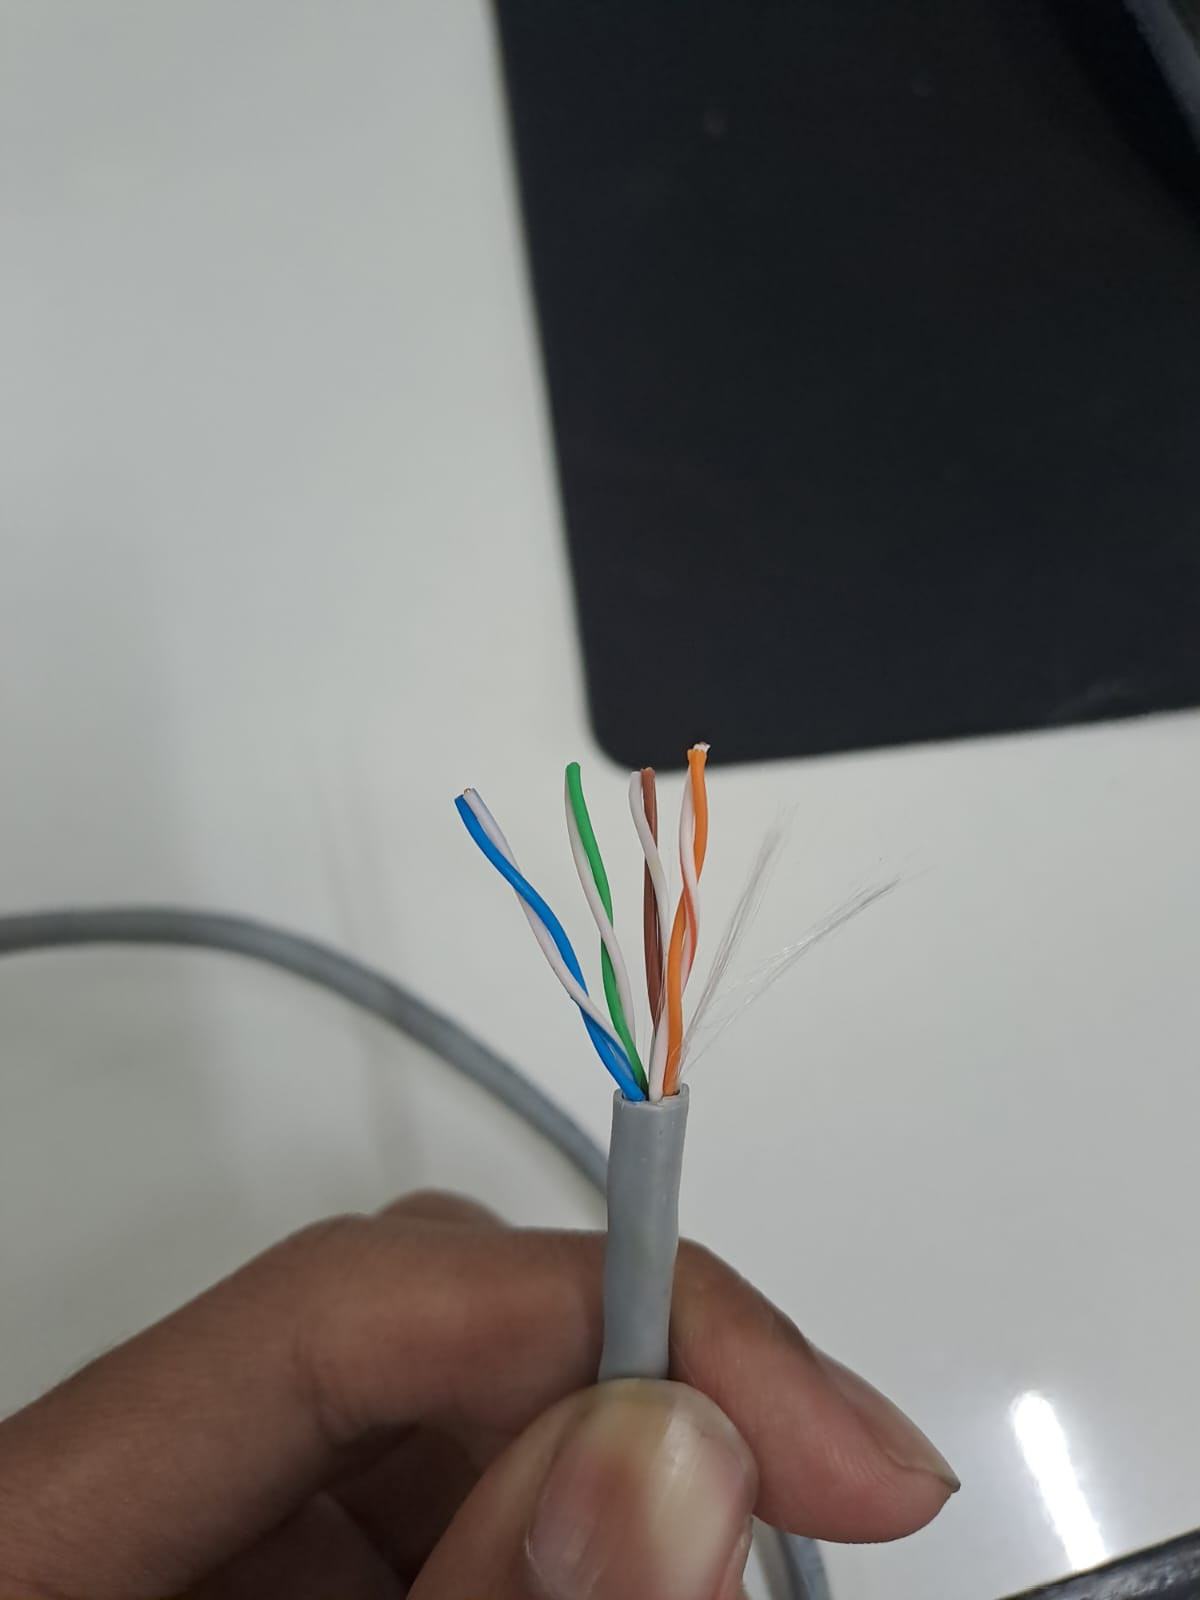
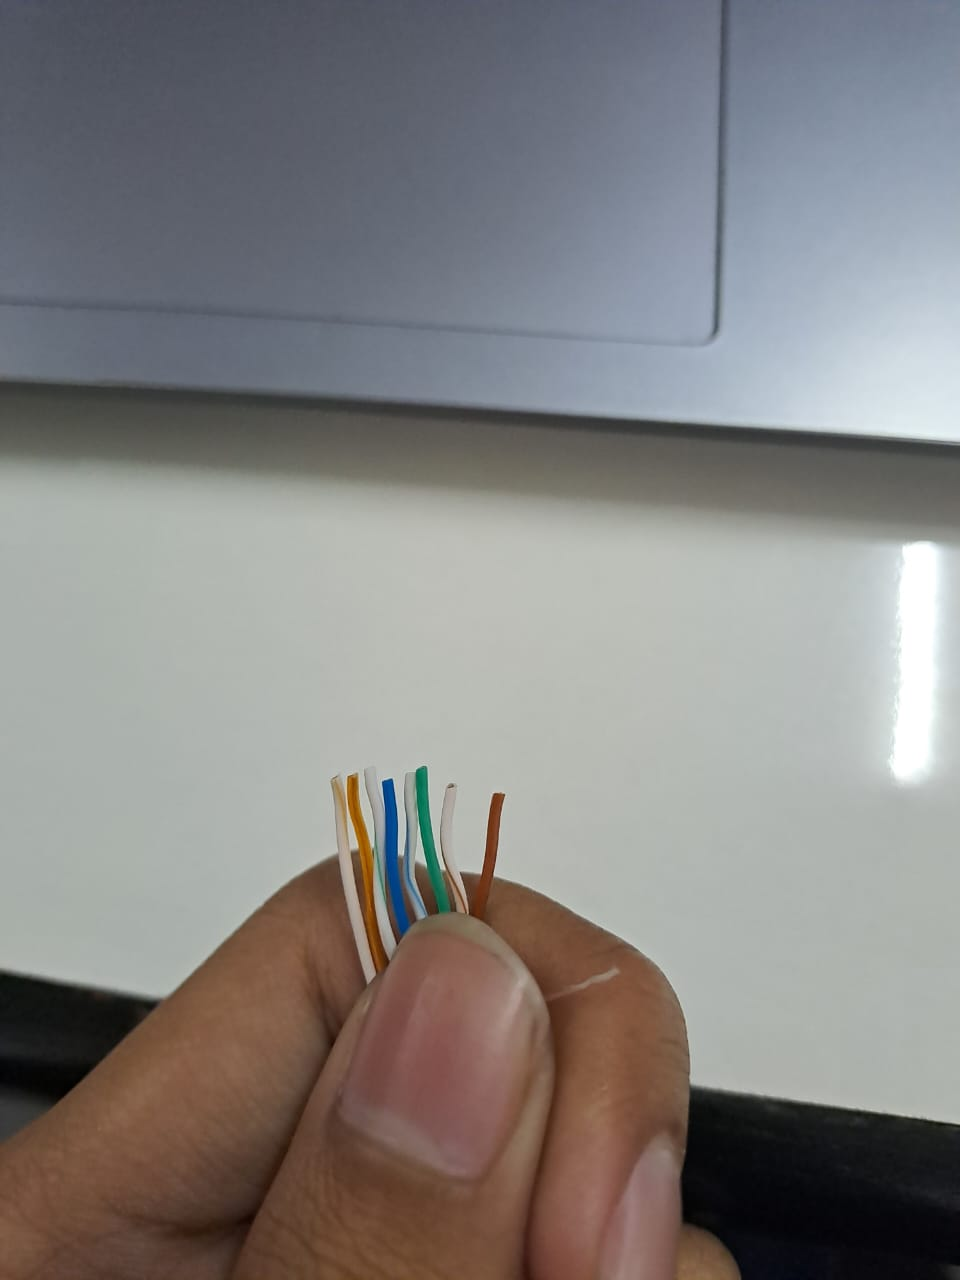
Bab Two Crimping

diff --git a/content/docs/babTwo/crimping.md b/content/docs/babTwo/crimping.md
@@ -106,27 +106,55 @@ antara Switch ke Printer atau Switch ke Infocus.
 <img src="/images/babTwo/bt-13.jpg" alt="Gambar B.1 - Jenis Kabel Jaringan" class="img-fluid mb-3 responsive-img">
 </center>
 
-<h4>Cara Kerja</h4>
+## Cara crimping kabel
 
-1. Pertama, kupas kedua ujung kabel UTP untuk mengungkpakan kabel tembaga didalamnya.
+1.  Siapkan alat crimping dan kabel
+    <center>
+    <img src="/images/babTwo/bt-14.jpg" alt="Gambar B.1 - Jenis Kabel Jaringan" class="img-fluid mb-3 responsive-img-small">
+    </center>
 
-2. Rapikan seluruh kabel dengan hati-hati, pastikan urutan pin tetap terjaga tanpa ada perubahan posisi.
+2.  Pertama, kupas kedua ujung kabel UTP untuk mengungkpakan kabel tembaga didalamnya.
+    <center>
+    <img src="/images/babTwo/bt-15.jpg" alt="Gambar B.1 - Jenis Kabel Jaringan" class="img-fluid mb-3 responsive-img-small">
+    </center>
 
-3. Selanjutnya, rapikan ujung kabel dengan memotong sedikit menggunakan pemotong pada tang crimping, sehingga ujung-ujung kabel sejajar dan memiliki panjang yang sama.
+3.  Rapikan seluruh kabel dengan hati-hati, pastikan urutan warna pin tetap terjaga tanpa ada perubahan posisi.
+    <center>
+    <img src="/images/babTwo/bt-16.jpg" alt="Gambar B.1 - Jenis Kabel Jaringan" class="img-fluid mb-3 responsive-img-small">
+    </center>
 
-4. Maka ujung-ujung kabel akan terlihat rapi, sejajar, dan memiliki panjang yang sama.
+4.  Selanjutnya, rapikan ujung kabel dengan memotong sedikit menggunakan pemotong pada tang crimping, sehingga ujung-ujung kabel sejajar dan memiliki panjang yang sama.
+    <center>
+    <img src="/images/babTwo/bt-17.jpg" alt="Gambar B.1 - Jenis Kabel Jaringan" class="img-fluid mb-3 responsive-img-small">
+    </center>
 
-5. Lalu berikutnya, masukkan kedua ujung kabel ke dalam konektor RJ-45.
+5.  Maka ujung-ujung kabel akan terlihat rapi, sejajar, dan memiliki panjang yang sama.
+    <center>
+    <img src="/images/babTwo/bt-18.jpg" alt="Gambar B.1 - Jenis Kabel Jaringan" class="img-fluid mb-3 responsive-img-small">
+    </center>
 
-6. Tempatkan konektor ke dalam ruang yang sesuai pada alat crimping.
+6.  Lalu berikutnya, masukkan kedua ujung kabel ke dalam konektor RJ-45.
+    <center>
+    <img src="/images/babTwo/bt-19.jpg" alt="Gambar B.1 - Jenis Kabel Jaringan" class="img-fluid mb-3 responsive-img-small">
+    </center>
 
-7. Kemudian, tekan konektor RJ-45 dengan alat crimping hingga kedua gagangnya terjepit rapat, dan terdengar bunyi "klik".
+7.  Tempatkan konektor ke dalam ruang yang sesuai pada alat crimping.
 
-8. Periksa kembali apakah semua ujung kabel telah sejajar dan menyentuh dasar konektor, serta pastikan setiap pin tembaga pada konektor telah menembus ujung kabel secara merata. Jika semua langkah ini telah terpenuhi, maka kabel siap digunakan.
+8.  Kemudian, tekan konektor RJ-45 dengan alat crimping hingga kedua gagangnya terjepit rapat, dan terdengar bunyi "klik".
+    <center>
+    <img src="/images/babTwo/bt-20.jpg" alt="Gambar B.1 - Jenis Kabel Jaringan" class="img-fluid mb-3 responsive-img-small">
+    </center>
 
-9. Ulangi langkah yang sama pada ujung kabel yang satunya (berikutnya).
+9.  Periksa kembali apakah semua ujung kabel telah sejajar dan menyentuh dasar konektor, serta pastikan setiap pin tembaga pada konektor telah menembus ujung kabel secara merata. Jika semua langkah ini telah terpenuhi, maka kabel siap digunakan.
 
-10. Setelah kedua ujung kabel terpasang konektor, langkah berikutnya adalah memeriksa kabel tersebut menggunakan alat LAN Tester.
+10. Ulangi langkah yang sama pada ujung kabel yang satunya (berikutnya).
+
+11. Setelah kedua ujung kabel terpasang konektor, langkah berikutnya adalah memeriksa kabel tersebut menggunakan alat LAN Tester.
+    <center>
+    <img src="/images/babTwo/bt-21.jpg" alt="Gambar B.1 - Jenis Kabel Jaringan" class="img-fluid mb-3 responsive-img-small">
+    </center>
+
+{{< alert context="info" text="<strong>Perhatian: penyusunan salah atau penjepitan yang salah menyebabkan RJ-45 Connector tidak bisa dipakai lagi.</strong>"/>}}
 
 ## Tugas
 
